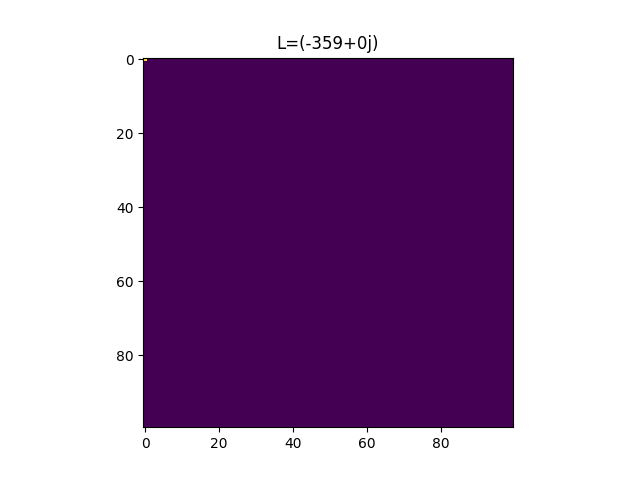
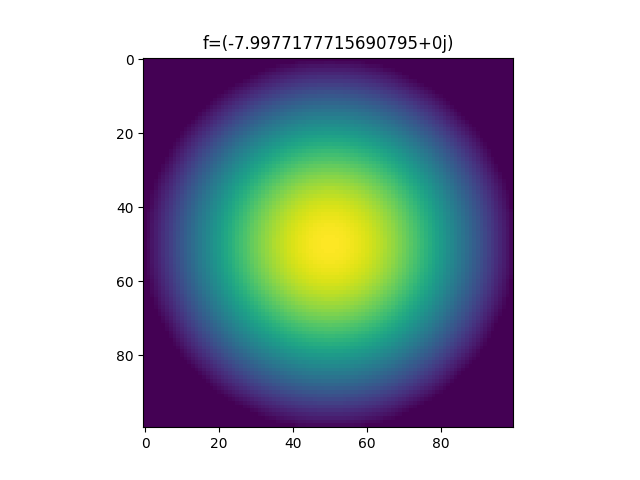
Fixed circle

diff --git a/ass_3.py b/ass_3.py
@@ -5,65 +5,59 @@ from scipy.sparse.linalg import eigs
 
 import matplotlib.pyplot as plt
 
-def wave_solver(grid, x_length, y_length, filename, sparce=True):
+def wave_solver(grid, x_length, y_length, filename, sparce=True, circle_list=[]):
     n_elements = x_length * y_length
     matrix = np.zeros((n_elements, n_elements))
 
     for y in range(0, y_length):
         for x in range(0, x_length):
             element = grid[y][x]
-            if y > 0 and grid[y-1][x] != 0:
+            if y > 0:
                 matrix[grid[y-1][x]][element] = 1
-                matrix[element][element] -= 1
-            if y < y_length - 1 and grid[y+1][x] != 0:
+                matrix[element][element] -=1
+            if y < y_length - 1 :
                 matrix[grid[y+1][x]][element] = 1
-                matrix[element][element] -= 1
-            if x > 0 and grid[y][x-1] != 0:
+                matrix[element][element] -=1
+            if x > 0:
                 matrix[grid[y][x-1]][element] = 1
-                matrix[element][element] -= 1
-            if x < x_length - 1 and grid[y][x+1] != 0:
+                matrix[element][element] -=1
+            if x < x_length - 1:
                 matrix[grid[y][x+1]][element] = 1
-                matrix[element][element] -= 1
+                matrix[element][element] -=1
+
+            matrix[element][element] = -4
+
+
+    for y in range(y_length):
+        for x in range(x_length):
+            element = grid[y][x]
+            if circle_list != [] and element not in circle_list:
+                matrix[element] = 0
 
     print(matrix)
+
     if sparce:
         solution = eigs(matrix)
     else:
         solution = linalg.eig(matrix)
 
-
-    for L in range(len(solution[1][0])):
+    for L in range(min(10, len(solution[1][0]))):
 
         solution_grid = np.zeros((y_length, x_length))
 
         for y in range(y_length):
             for x in range(x_length):
-                solution_grid[y][x] = abs(solution[1][y * y_length + x][L])
+                solution_grid[y][x] = abs(solution[1][y * x_length + x][L])
 
-        plt.title(f"L={solution[0][L]}")
+        plt.title(f"f={solution[0][L]}")
         plt.imshow(solution_grid)
         plt.savefig(f"plots_3/{filename}{L+1}")
 
 
-x_length = 100
-y_length = 100
+x_length = 50
+y_length = 50
 
 grid = np.zeros((y_length, x_length), dtype=int)
-
-counter = 0
-for y in range(y_length):
-    for x in range(x_length):
-        grid[y][x] = int(counter)
-        counter += 1
-
-#wave_solver(grid, x_length, y_length, "square")
-
-x_length = 4
-y_length = 3
-
-grid = np.zeros((y_length, x_length), dtype=int)
-
-
 
 counter = 0
 for y in range(y_length):
@@ -73,7 +67,22 @@ for y in range(y_length):
 
 print(grid)
 
-wave_solver(grid, x_length, y_length, "rectangle")
+#wave_solver(grid, x_length, y_length, "square")
+
+x_length = 100
+y_length = 50
+
+grid = np.zeros((y_length, x_length), dtype=int)
+
+counter = 0
+for y in range(y_length):
+    for x in range(x_length):
+        grid[y][x] = int(counter)
+        counter += 1
+
+print(grid)
+
+#wave_solver(grid, x_length, y_length, "rectangle")
 
 array = np.zeros((50, 50))
 
@@ -98,10 +107,14 @@ y_length = 100
 grid = np.zeros((y_length, x_length), dtype=int)
 
 counter = 0
+circle_list = []
+
 for y in range(y_length):
     for x in range(x_length):
         if mask[y][x]:
-            grid[y][x] = int(counter)
-            counter += 1
+            circle_list.append(counter)
+        grid[y][x] = counter
+        counter += 1
+        
 
-#wave_solver(grid, x_length, y_length, "circle")
+wave_solver(grid, x_length, y_length, "circle", circle_list=circle_list)
